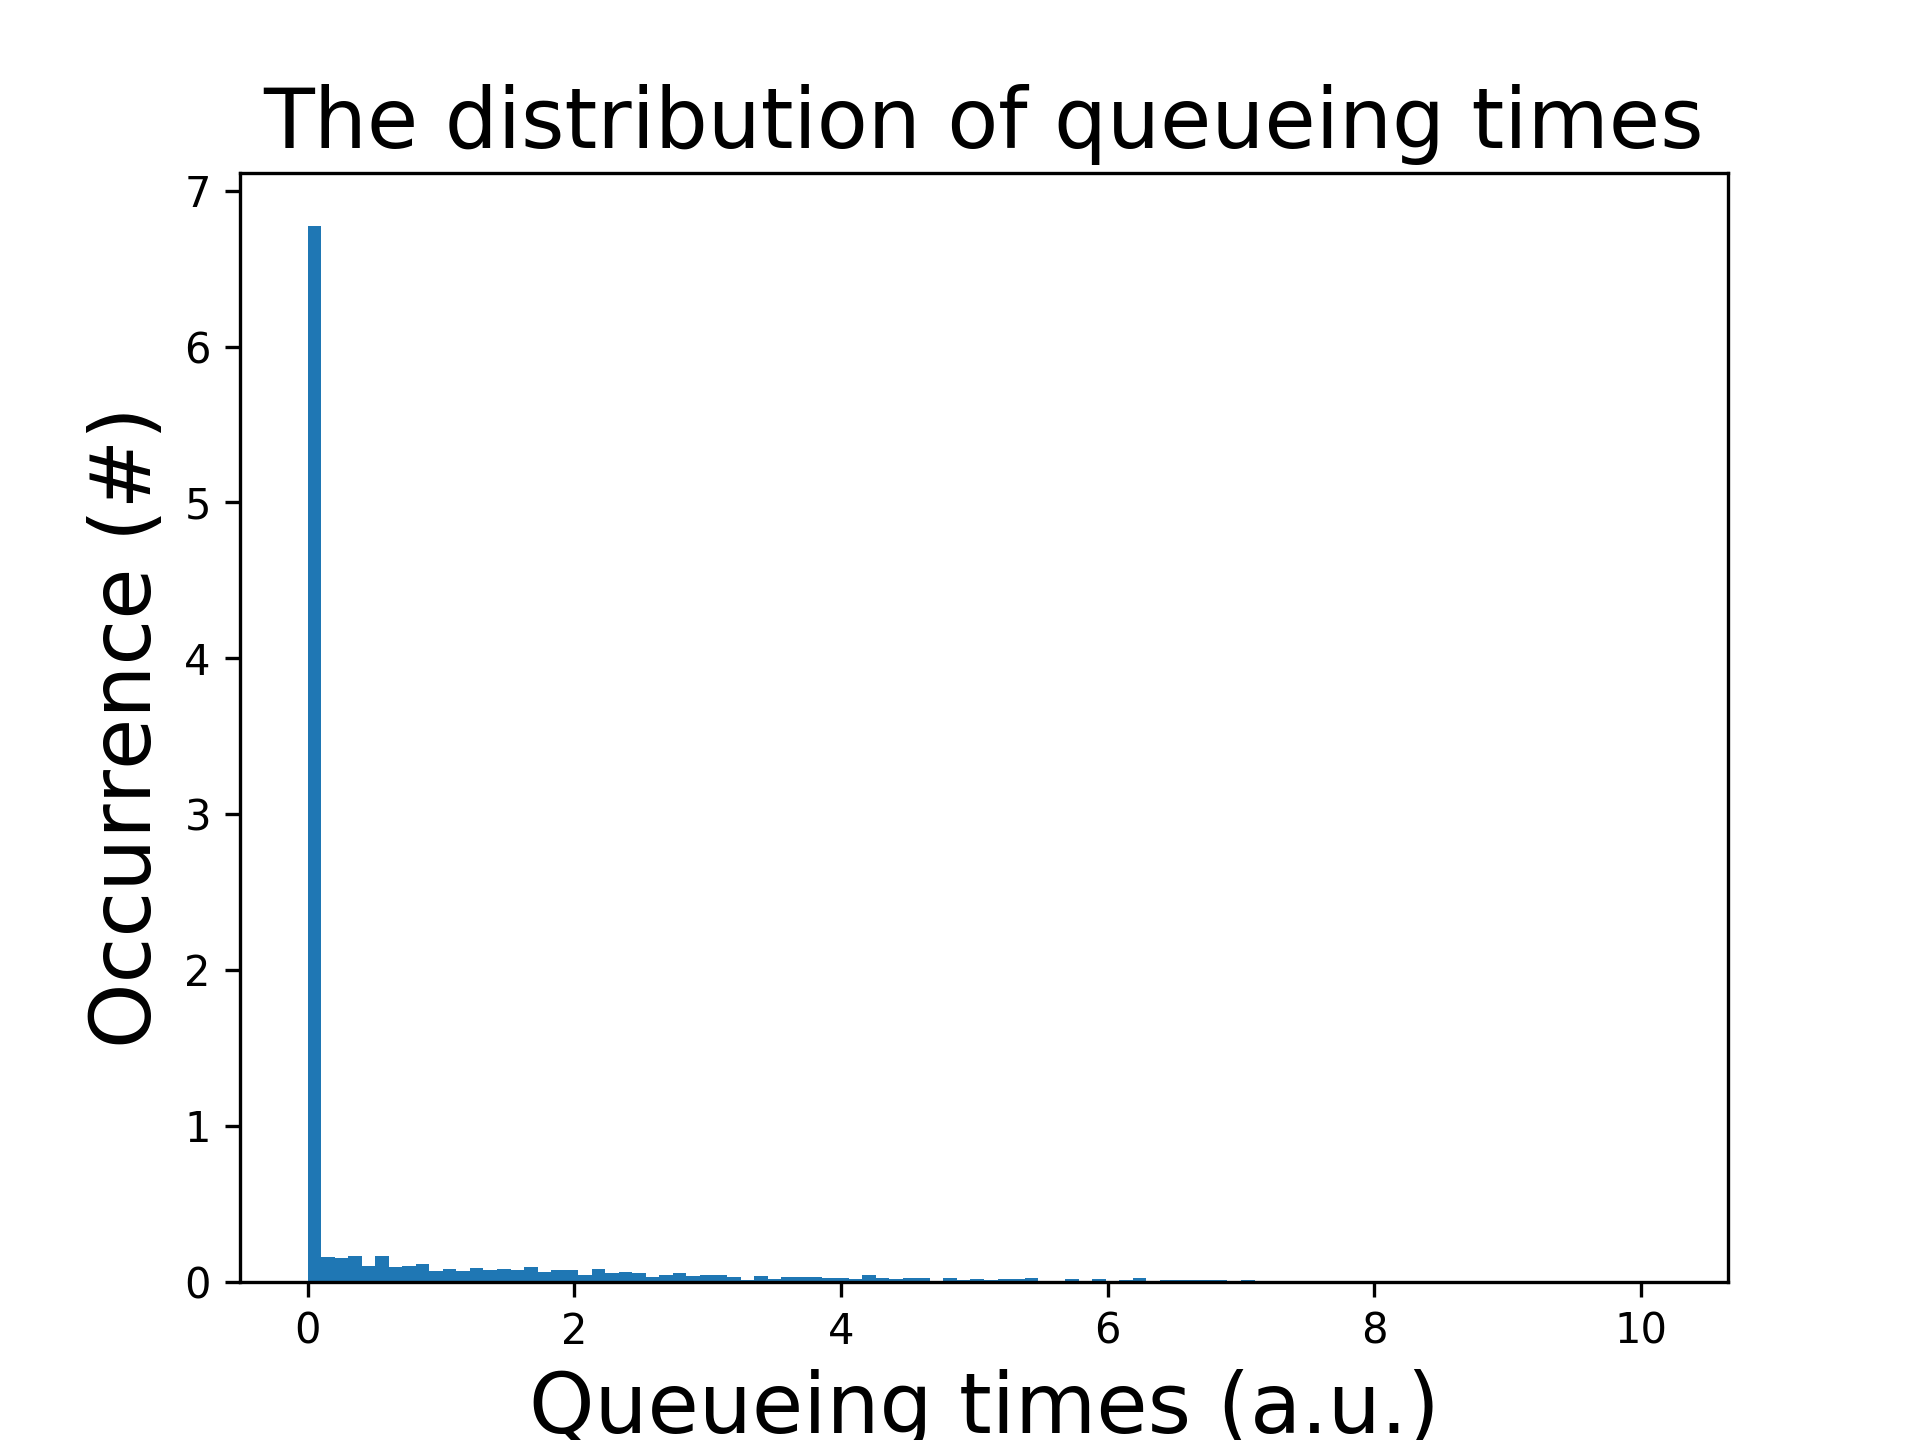
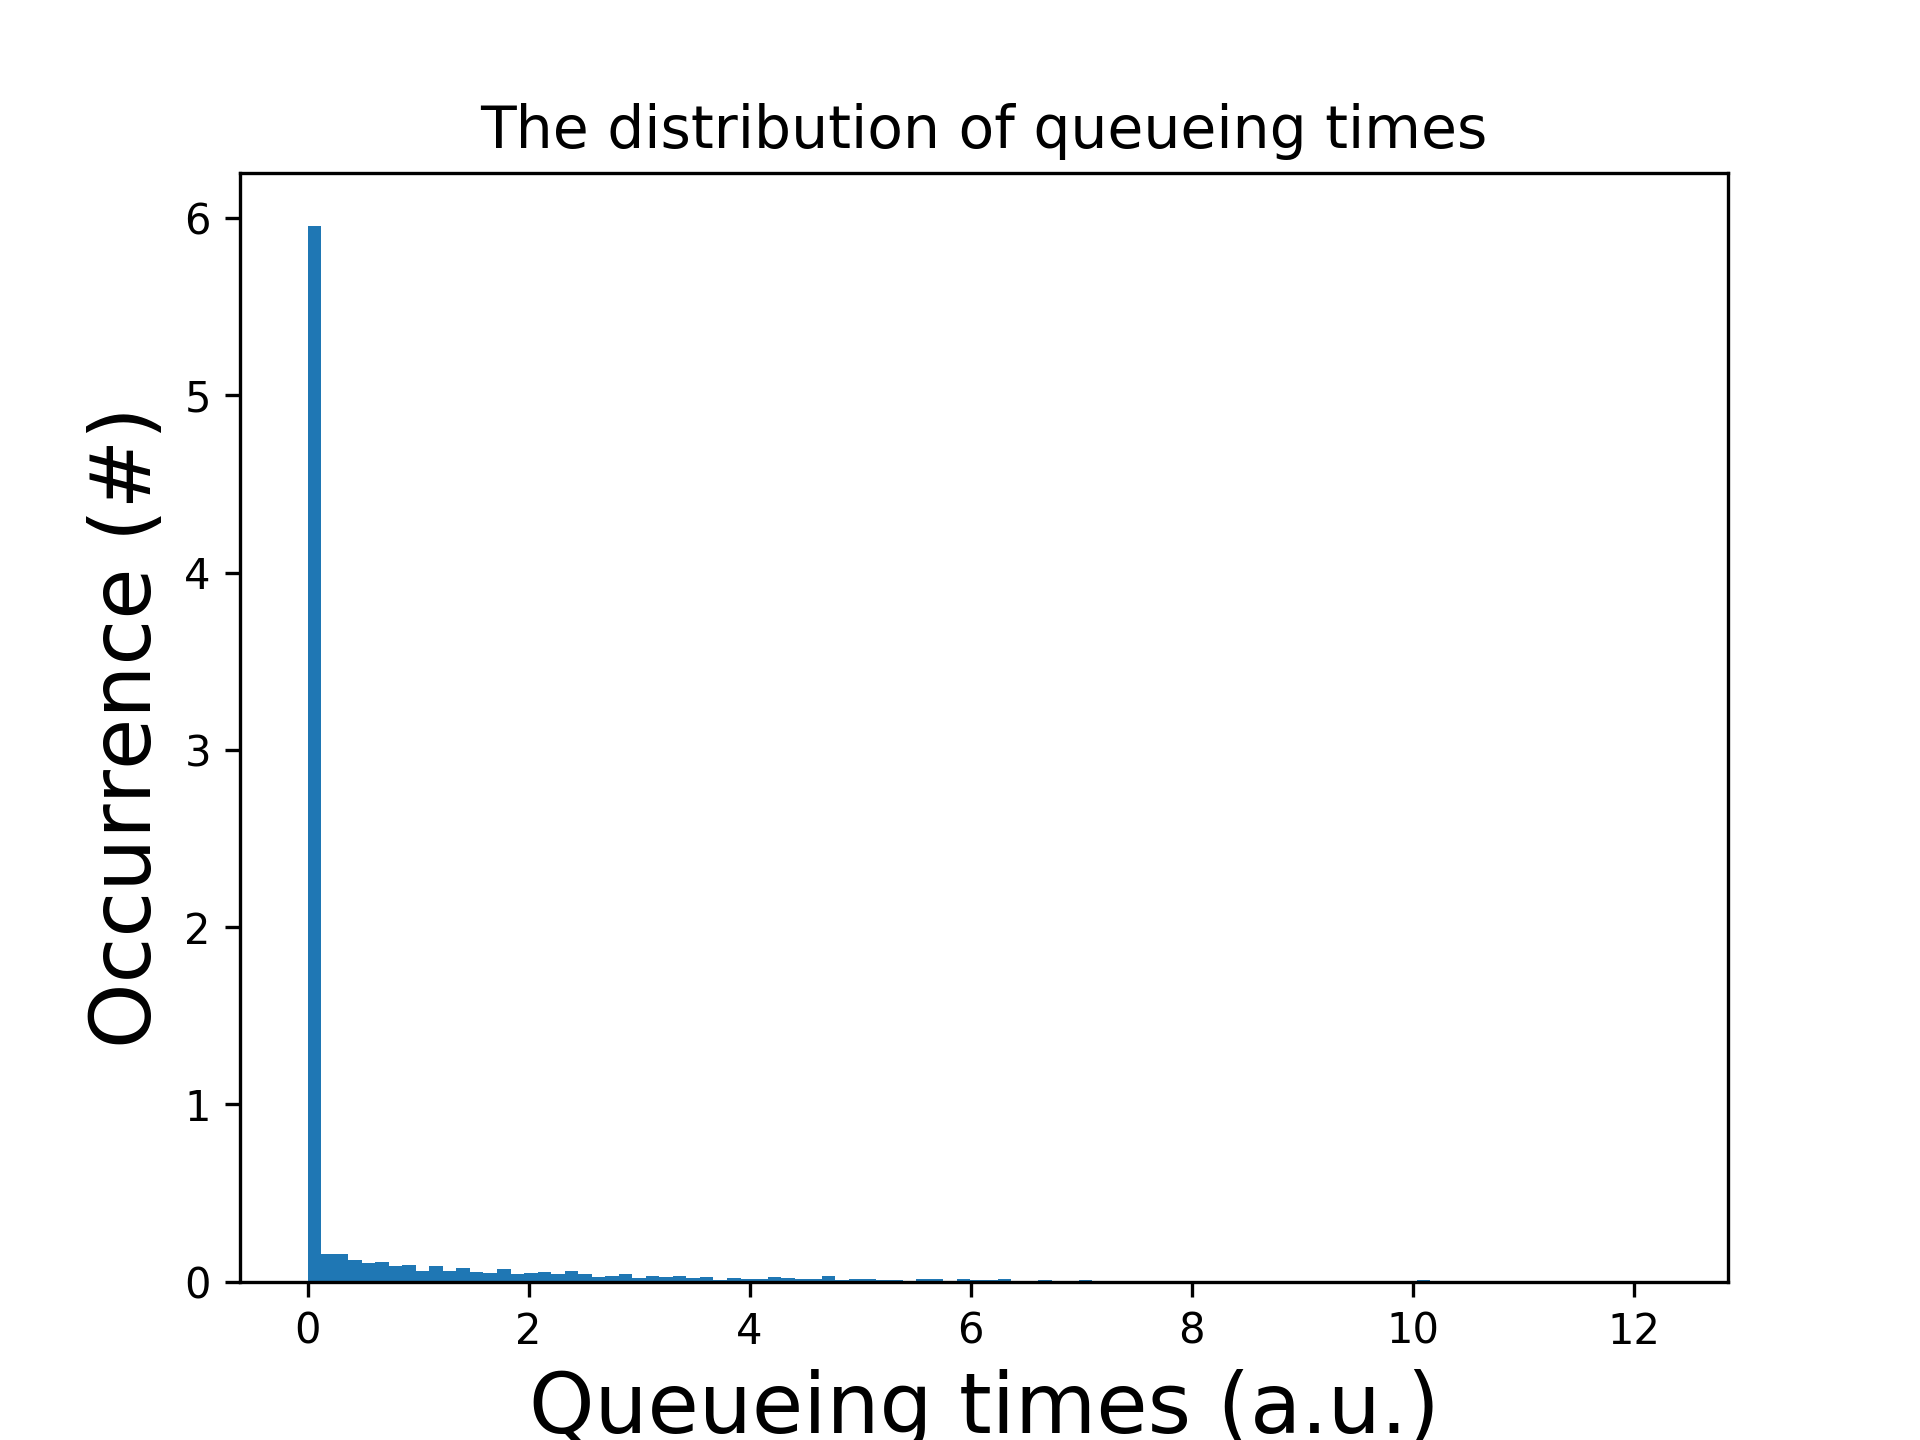
Added queueing time comparison for different values of rho

diff --git a/Code/main.py b/Code/main.py
@@ -13,106 +13,155 @@ import os
 from scipy.optimize import curve_fit
 from scipy.special import factorial
 
-n_server = 2
+n_server = 1
 mu = 0.50
 l = 0.48
 endtime = 5000
 n_simulations = 1500
 sjf = False # use shortest job first
+main_program = False
+different_rho_comparison = True
+
+if main_program:
+    list_average_queuelength = []
+    list_average_queuingtimes = []
+
+    # run the simulation multiple times
+    for i in range(n_simulations):
+
+        # initialize the global lists
+        init_global()
+
+        # create a simpy environment
+        env = simpy.Environment()
+
+        # set up the system
+        env.process(setup(env, n_server, mu, l, sjf))
+
+        # run the program
+        env.run(until=endtime)
+
+        average_queuelength = np.average(global_variables.queue_length_list)
+        list_average_queuelength.append(average_queuelength)
+
+        average_queuingtimes = np.average(global_variables.time_spend_in_queue_list)
+        list_average_queuingtimes.append(average_queuingtimes)
+
+        print("Now at simulation {}".format(i))
+
+    total_average_queuelength = np.average(list_average_queuelength)
+    variance_average_queuelength = 1. / (n_simulations - 1.) * sum(list_average_queuelength - total_average_queuelength)
+    nf_confidence_average_queuelength = 1.96 * np.sqrt(variance_average_queuelength/n_simulations)
+    print(nf_confidence_average_queuelength)
+
+    ########################################################################################################
+
+    # plot the distribution of the average queueing times
+    onesim_queueingtimes = plt.figure()
+    entries, bin_edges, patches = plt.hist(global_variables.time_spend_in_queue_list, bins=100, normed=True)
+    plt.title("The distribution of queueing times", fontsize=14)
+    plt.xlabel("Queueing times (a.u.)", fontsize=20)
+    plt.ylabel("Occurrence (#)", fontsize=20)
+    plt.savefig("onesim_queueingtimes_distribution.png", dpi=300)
+
+    ########################################################################################################
 
 
-list_average_queuelength = []
-list_average_queuingtimes = []
-# run the simulation multiple times
-for i in range(n_simulations):
-
-    # initialize the global lists
-    init_global()
-
-    # create a simpy environment
-    env = simpy.Environment()
-
-    # set up the system
-    env.process(setup(env, n_server, mu, l, sjf))
-
-    # run the program
-    env.run(until=endtime)
-
-    average_queuelength = np.average(global_variables.queue_length_list)
-    list_average_queuelength.append(average_queuelength)
-
-    average_queuingtimes = np.average(global_variables.time_spend_in_queue_list)
-    list_average_queuingtimes.append(average_queuingtimes)
-
-    print("Now at simulation {}".format(i))
+    # plot the distribution of the average queue lengths
+    plt.figure()
+    entries, bin_edges, patches = plt.hist(list_average_queuelength, bins = 100, normed=True)
+    plt.title("The distribution of the average queue lengths\n of the different simulations", fontsize=14)
+    plt.xlabel("Average queueing lengths (#)", fontsize=20)
+    plt.ylabel("Occurrence (#)", fontsize=20)
+    # fit poisson distribution to data
+    # x_plot = np.linspace(1, 60, 1000)
+    # plt.plot(x_plot, poisson_fit(entries, bin_edges, x_plot), 'r-', lw=2)
 
 
-########################################################################################################
+    ########################################################################################################
 
-# plot the distribution of the average queueing times
-onesim_queueingtimes = plt.figure()
-entries, bin_edges, patches = plt.hist(global_variables.time_spend_in_queue_list, bins=100, normed=True)
-plt.title("The distribution of queueing times", fontsize=14)
-plt.xlabel("Queueing times (a.u.)", fontsize=20)
-plt.ylabel("Occurrence (#)", fontsize=20)
-plt.savefig("onesim_queueingtimes_distribution.png", dpi=300)
+    # plot the distribution of servicing times
+    plt.figure()
+    plt.title("A histogram of the time helping costs \n of one simulation")
+    plt.ylabel("Occurrence (#)", fontsize=20)
+    plt.xlabel("Helping times (a.u.)", fontsize=20)
+    plt.hist(global_variables.list_helptime)
 
-########################################################################################################
+    ########################################################################################################
 
+    # plot the distribution of the interarrival times
+    plt.figure()
+    plt.title("A histogram of the time inbetween arrivals of tasks")
+    plt.ylabel("Occurrence (#)", fontsize=20)
+    plt.xlabel("Inter-arrival times (a.u.)", fontsize=20)
+    plt.hist(global_variables.list_arrivaltime)
 
-# plot the distribution of the average queue lengths
-plt.figure()
-entries, bin_edges, patches = plt.hist(list_average_queuelength, bins = 100, normed=True)
-plt.title("The distribution of the average queue lengths\n of the different simulations", fontsize=14)
-plt.xlabel("Average queueing lengths (#)", fontsize=20)
-plt.ylabel("Occurrence (#)", fontsize=20)
-# fit poisson distribution to data
-# x_plot = np.linspace(1, 60, 1000)
-# plt.plot(x_plot, poisson_fit(entries, bin_edges, x_plot), 'r-', lw=2)
+    ########################################################################################################
 
 
-########################################################################################################
+    # plot the queue length at different times
+    plt.figure()
+    plt.title("Queue length versus time")
+    plt.ylabel("Queue length (#)", fontsize=20)
+    plt.xlabel("Time (a.u.)", fontsize=20)
+    plt.plot(global_variables.queue_time_list, global_variables.queue_length_list)
 
-# plot the distribution of servicing times
-plt.figure()
-plt.title("A histogram of the time helping costs \n of one simulation")
-plt.ylabel("Occurrence (#)", fontsize=20)
-plt.xlabel("Helping times (a.u.)", fontsize=20)
-plt.hist(global_variables.list_helptime)
+    ########################################################################################################
 
-########################################################################################################
-
-# plot the distribution of the interarrival times
-plt.figure()
-plt.title("A histogram of the time inbetween arrivals of tasks")
-plt.ylabel("Occurrence (#)", fontsize=20)
-plt.xlabel("Inter-arrival times (a.u.)", fontsize=20)
-plt.hist(global_variables.list_arrivaltime)
-
-########################################################################################################
+    plt.figure()
+    entries, bin_edges, patches = plt.hist(list_average_queuingtimes, bins = 100)
+    plt.title("The distribution of the average waiting times\n of the different simulations", fontsize=14)
+    plt.xlabel("Average queueing times (#)", fontsize=20)
+    plt.ylabel("Occurrence (#)", fontsize=20)
+    # x_plot = np.linspace(0, 60, 1000)
+    # plt.plot(x_plot, poisson_fit(entries, bin_edges, x_plot), 'r-', lw=2)
 
 
-# plot the queue length at different times
-plt.figure()
-plt.title("Queue length versus time")
-plt.ylabel("Queue length (#)", fontsize=20)
-plt.xlabel("Time (a.u.)", fontsize=20)
-plt.plot(global_variables.queue_time_list, global_variables.queue_length_list)
+    ########################################################################################################
 
-########################################################################################################
+'''Run simulation for different values of rho'''
+if different_rho_comparison:
+    list_nf_confidence_average_queuetimes = []
+    list_total_average_queuetimes = []
 
-plt.figure()
-entries, bin_edges, patches = plt.hist(list_average_queuingtimes, bins = 100)
-plt.title("The distribution of the average waiting times\n of the different simulations", fontsize=14)
-plt.xlabel("Average queueing times (#)", fontsize=20)
-plt.ylabel("Occurrence (#)", fontsize=20)
-# x_plot = np.linspace(0, 60, 1000)
-# plt.plot(x_plot, poisson_fit(entries, bin_edges, x_plot), 'r-', lw=2)
+    for mu in np.arange(l, 1, 0.1):
+        list_average_queuelength = []
+        list_average_queuingtimes = []
 
+        # run the simulation multiple times
+        for i in range(n_simulations):
 
-########################################################################################################
+            # initialize the global lists
+            init_global()
 
+            # create a simpy environment
+            env = simpy.Environment()
 
+            # set up the system
+            env.process(setup(env, n_server, mu, l, sjf))
+
+            # run the program
+            env.run(until=endtime)
+
+            average_queuelength = np.average(global_variables.queue_length_list)
+            list_average_queuelength.append(average_queuelength)
+
+            average_queuingtimes = np.average(global_variables.time_spend_in_queue_list)
+            list_average_queuingtimes.append(average_queuingtimes)
+
+            print("Now at simulation {}".format(i))
+
+        total_average_queuetimes = np.average(list_average_queuingtimes)
+        list_total_average_queuetimes.append(total_average_queuetimes)
+        variance_average_queuetimes = 1. / (n_simulations - 1.) * sum(list_average_queuingtimes - total_average_queuetimes)
+        nf_confidence_average_queuetimes = 1.96 * np.sqrt(variance_average_queuetimes/n_simulations)
+        list_nf_confidence_average_queuetimes.append(nf_confidence_average_queuetimes)
+        print(nf_confidence_average_queuelength)
+
+    plt.figure()
+    plt.errorbar(np.arange(l, 1, 0.1), list_total_average_queuetimes, nf_confidence_average_queuetimes)
+    plt.title("Average queueing times versus rho")
+    plt.xlabel("value of mu (a.u.)", fontsize=20)
+    plt.ylabel("Average time spent in queue (a.u.)", fontsize=20)
 
 plt.show()
-
